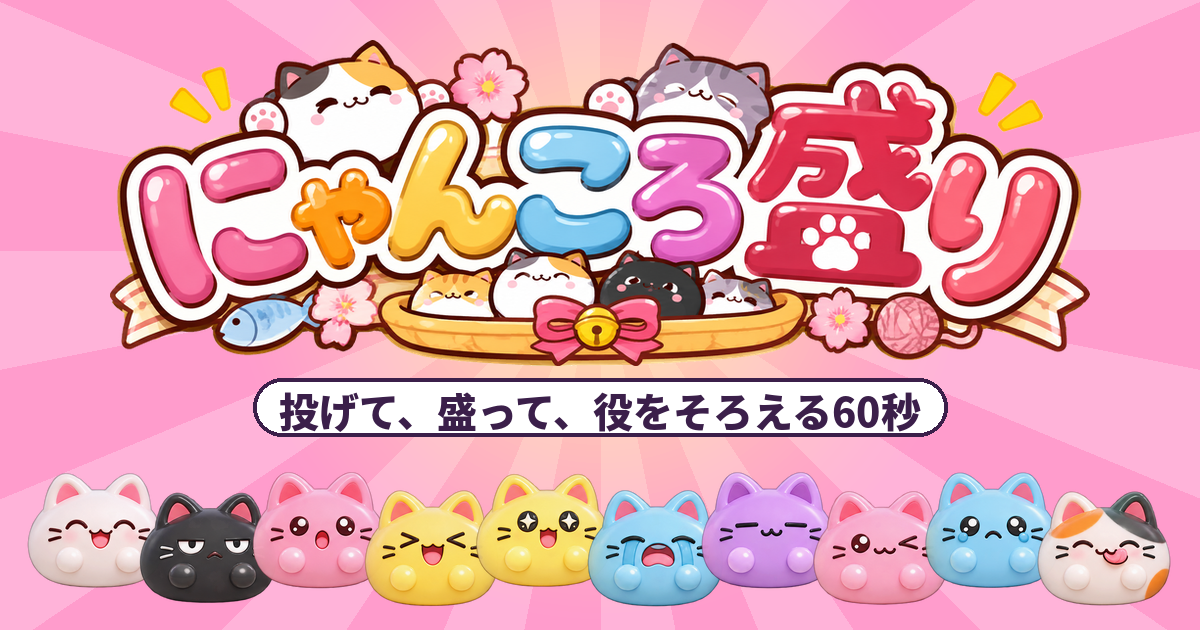
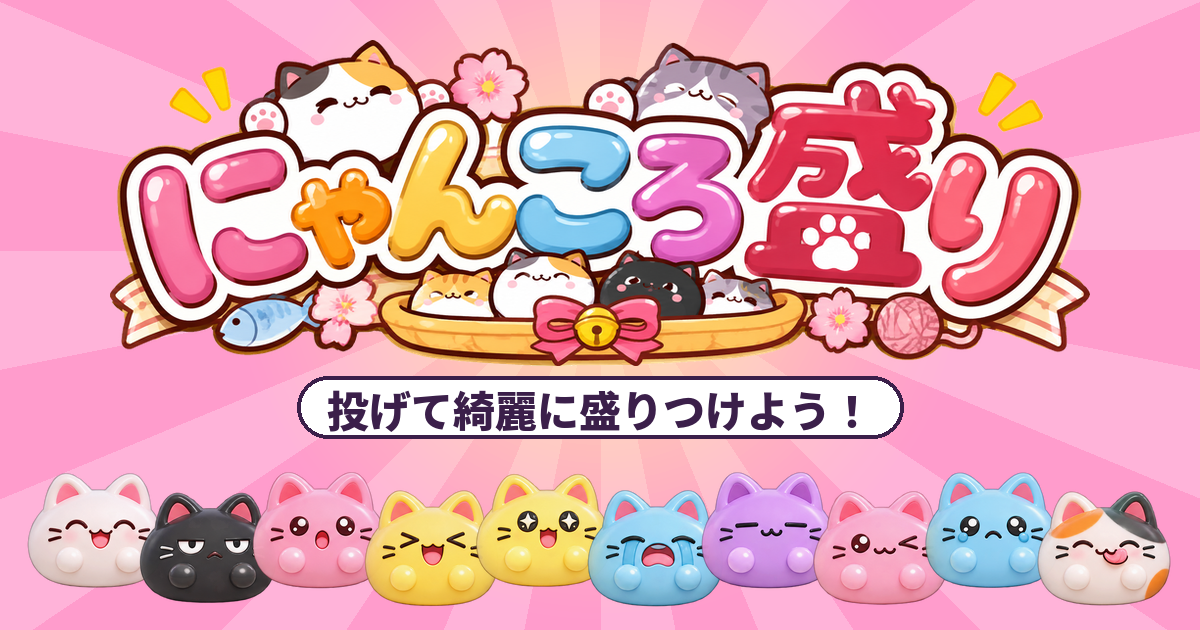
リンク共有の画像の文言を「投げて綺麗に盛りつけよう！」に変更
Claude-Session: https://claude.ai/code/session_01U8PzaV3KqDWApd39gYXGgy

Changed region(s): [[0.185, 0.573, 0.8017, 0.7238]]

diff --git a/index.html b/index.html
@@ -9,7 +9,7 @@
 <meta property="og:title" content="にゃんころ盛り">
 <meta property="og:description" content="にゃんころもちを投げて、お皿や重箱にきれいに盛る60秒ゲーム。形がそろうと役カードがもらえる。">
 <meta property="og:url" content="https://nagashinocat.github.io/nyankoro-mori/">
-<meta property="og:image" content="https://nagashinocat.github.io/nyankoro-mori/ogp.png">
+<meta property="og:image" content="https://nagashinocat.github.io/nyankoro-mori/ogp.png?v=2">
 <meta name="twitter:card" content="summary_large_image">
 <meta name="theme-color" content="#ff9ccc">
 <link rel="icon" type="image/png" href="favicon.png">
